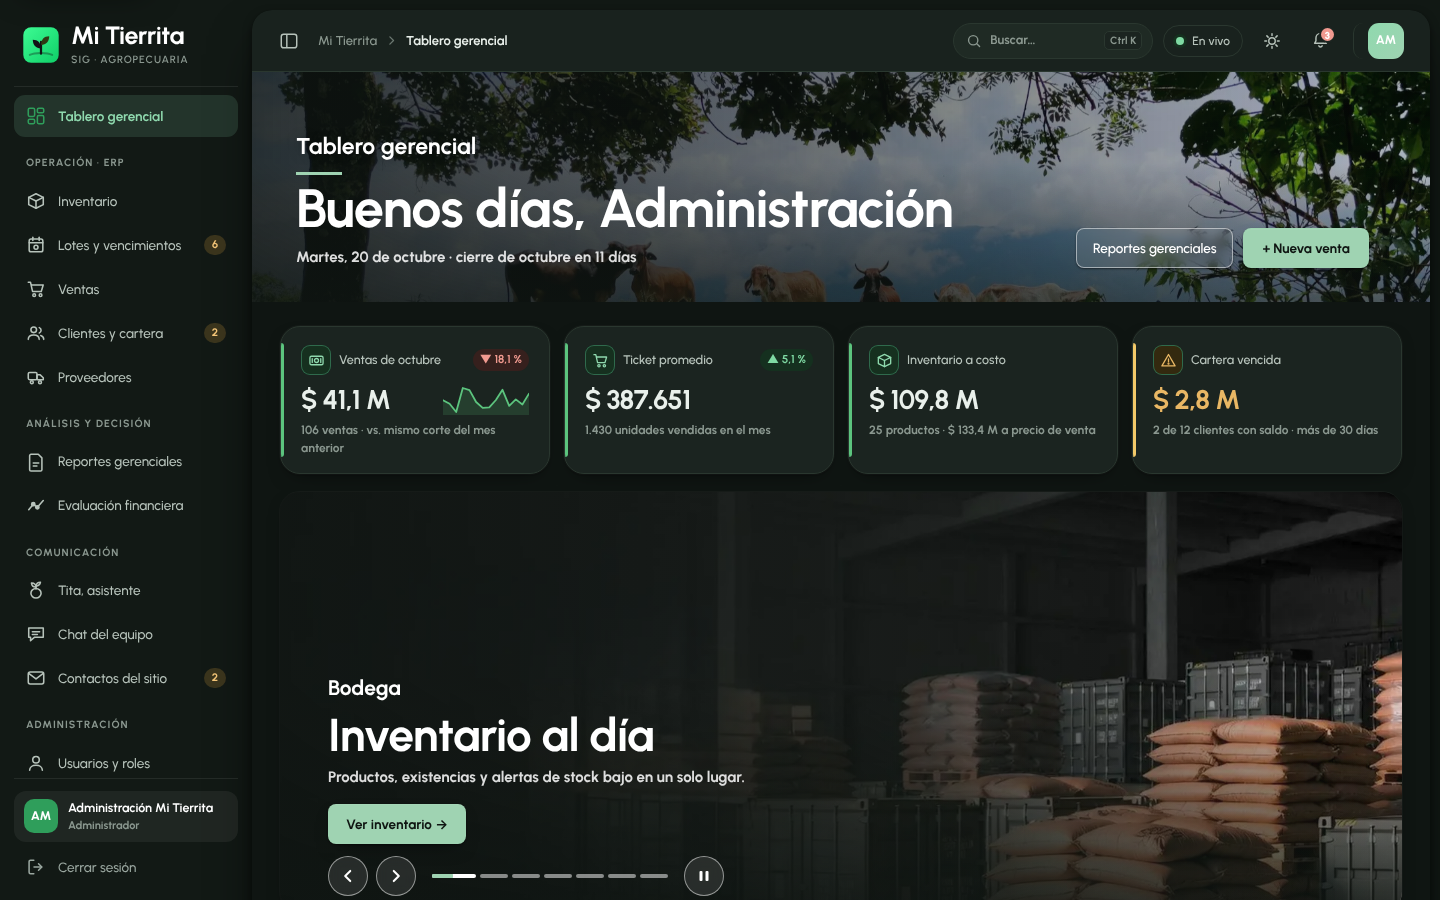
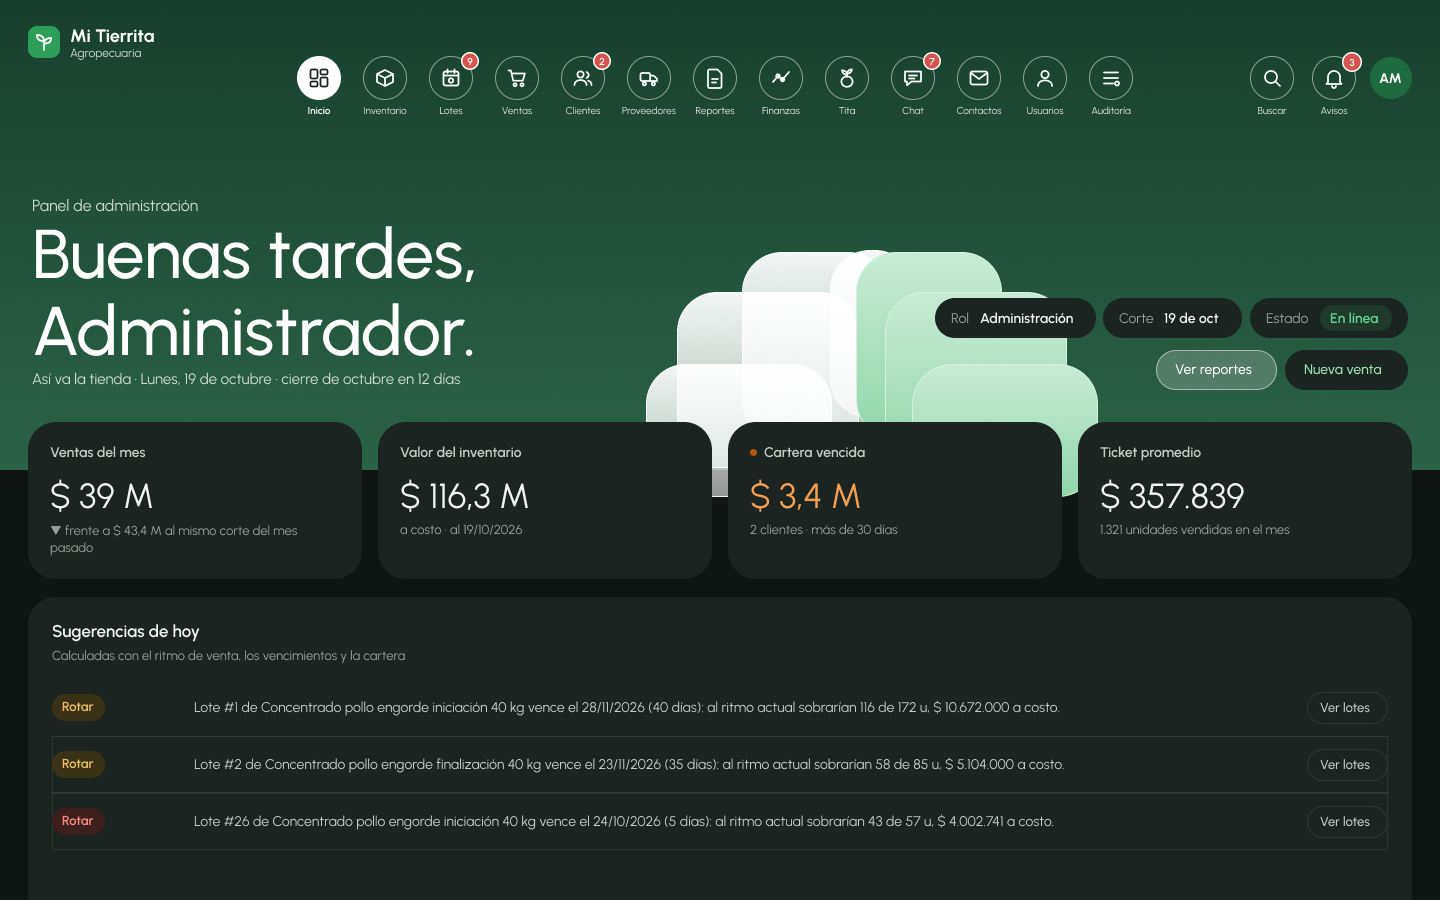
Capturas del README y el manual: son las pantallas del diseño en Figma

diff --git a/docs/MANUAL-USUARIO.md b/docs/MANUAL-USUARIO.md
@@ -1,6 +1,6 @@
 # Manual de usuario · Mi Tierrita SIG (guía rápida)
 
-> Guía rápida de la versión **v4.5** (capturas del 20/10/2026, con datos de demostración simulados). La versión completa
+> Guía rápida de la versión **v4.5** (capturas exportadas de Figma el 20/10/2026, con datos de demostración simulados). La versión completa
 > por rol está en Figma (página 04, manuales por rol en escritorio y móvil). Las cuentas las entrega el administrador;
 > la pantalla de ingreso no muestra atajos de demostración.
 
@@ -11,18 +11,18 @@ Quien abre el sitio sin sesión ve la página de la tienda. Su barra tiene **Cat
 escriba su nombre, un **teléfono o WhatsApp** o un correo (basta uno), el tema y el mensaje: llega al instante a la
 campana del administrador (máximo 5 mensajes por hora desde la misma conexión).
 
-![Página pública](capturas/00-pagina-inicio.png?v=20261021)
+![Página pública](capturas/00-pagina-inicio.png?v=20261022)
 
-![Catálogo](capturas/00b-pagina-catalogo.png?v=20261021)
+![Catálogo](capturas/00b-pagina-catalogo.png?v=20261022)
 
-![Contacto](capturas/25-pagina-contacto.png?v=20261021)
+![Contacto](capturas/25-pagina-contacto.png?v=20261022)
 
 ## 2. Ingresar
 
 Escriba su usuario y contraseña y pulse **Entrar al sistema**. Después de 10 intentos en 15 minutos hay que esperar.
 **Volver al sitio de Mi Tierrita** regresa a la página pública.
 
-![Ingreso](capturas/01-inicio-sesion.png?v=20261021)
+![Ingreso](capturas/01-inicio-sesion.png?v=20261022)
 
 ## 3. La pantalla principal
 
@@ -35,11 +35,11 @@ Escriba su usuario y contraseña y pulse **Entrar al sistema**. Después de 10 i
   en bodega; la secretaria, lo vendido hoy (contado y crédito), clientes con saldo y sus pendientes; bodega, **qué hacer
   hoy** y los lotes próximos a vencer.
 
-![Tablero](capturas/02-tablero.png?v=20261021)
+![Tablero](capturas/02-tablero.png?v=20261022)
 
 | Secretaria | Bodega |
 |---|---|
-| ![](capturas/28-tablero-secretaria.png?v=20261021) | ![](capturas/27-tablero-bodega.png?v=20261021) |
+| ![](capturas/28-tablero-secretaria.png?v=20261022) | ![](capturas/27-tablero-bodega.png?v=20261022) |
 
 ### Indicador de conexión
 
@@ -56,7 +56,7 @@ Escriba su usuario y contraseña y pulse **Entrar al sistema**. Después de 10 i
 **Ctrl + K** (o `/`) y escriba dos letras: productos con existencia, clientes con saldo, ventas por factura,
 proveedores y personas. Flechas para moverse, **Enter** para abrir; una persona abre el chat privado.
 
-![Búsqueda](capturas/16-busqueda.png?v=20261021)
+![Búsqueda](capturas/16-busqueda.png?v=20261022)
 
 ## 5. Chat del equipo
 
@@ -71,11 +71,11 @@ proveedores y personas. Flechas para moverse, **Enter** para abrir; una persona 
   mensajes que usted puede ver.
 - Si lee mensajes antiguos y llegan nuevos, aparece **↓ N mensajes nuevos**. La pestaña muestra «(n)» con lo pendiente.
 
-![Chat general](capturas/10-chat-general.png?v=20261021)
+![Chat general](capturas/10-chat-general.png?v=20261022)
 
-![Chat privado](capturas/10b-chat-privado.png?v=20261021)
+![Chat en modo oscuro](capturas/10d-chat-oscuro.png?v=20261022)
 
-![Detalle de recibos](capturas/10c-chat-recibos.png?v=20261021)
+![Detalle de recibos](capturas/10c-chat-recibos.png?v=20261022)
 
 ## 5b. Tita, la asistente
 
@@ -96,7 +96,7 @@ Tita avisa «no está disponible» y el resto del sistema funciona igual.
 Pulse un aviso para ir al módulo; **Marcar todas como leídas** limpia el contador. Quien hace la acción no recibe su
 propio aviso.
 
-![Notificaciones](capturas/15-notificaciones.png?v=20261021)
+![Notificaciones](capturas/15-notificaciones.png?v=20261022)
 
 ## 7. Operación diaria
 
@@ -106,9 +106,9 @@ propio aviso.
 - **Bodega · Lotes:** rojo = vencido (retirar), dorado = vence pronto (sacar al frente).
 - **Bodega · Proveedores:** **Registrar compra** crea el lote con su vencimiento y avisa al administrador.
 
-![Punto de venta](capturas/06-punto-de-venta.png?v=20261021)
+![Punto de venta](capturas/06-punto-de-venta.png?v=20261022)
 
-![Lotes](capturas/05-lotes.png?v=20261021)
+![Lotes](capturas/05-lotes.png?v=20261022)
 
 ## 8. Administración y decisión
 
@@ -123,15 +123,15 @@ propio aviso.
 - **Usuarios y roles · Auditoría:** alta de usuarios y bitácora. El filtro **Acción** separa altas, cambios,
   borrados, **reportes generados** e **inicios de sesión**; la columna de detalle dice qué reporte y con qué filtros.
 
-![Reportes](capturas/09-reportes.png?v=20261021)
+![Reportes](capturas/09-reportes.png?v=20261022)
 
-![Reporte de ventas en PDF](capturas/22-reporte-ventas-pdf.png?v=20261021)
+![Reporte de ventas en PDF](capturas/22-reporte-ventas-pdf.png?v=20261022)
 
-![Auditoría de reportes](capturas/20-auditoria-reportes.png?v=20261021)
+![Auditoría de reportes](capturas/20-auditoria-reportes.png?v=20261022)
 
-![Evaluación financiera](capturas/08-evaluacion-financiera.png?v=20261021)
+![Evaluación financiera](capturas/08-evaluacion-financiera.png?v=20261022)
 
-![Contactos](capturas/19-contactos.png?v=20261021)
+![Contactos](capturas/19-contactos.png?v=20261022)
 
 ## 9. Perfil y tema
 
@@ -146,15 +146,15 @@ que ha hecho en 30 días. A la derecha, cinco pestañas:
 | Mi rol | Lo que puede hacer y a qué no tiene acceso |
 | Preferencias | Claro, oscuro o **según el sistema** (sigue al dispositivo en vivo); se guarda en este navegador |
 
-![Perfil](capturas/17-perfil.png?v=20261021)
+![Perfil](capturas/17-perfil.png?v=20261022)
 
-![Mi actividad](capturas/17b-perfil-actividad.png?v=20261021)
+![Mi actividad](capturas/17b-perfil-actividad.png?v=20261022)
 
-![Seguridad](capturas/17c-perfil-seguridad.png?v=20261021)
+![Seguridad](capturas/17c-perfil-seguridad.png?v=20261022)
 
-![Preferencias](capturas/23-preferencias-tema.png?v=20261021)
+![Punto de venta en modo oscuro](capturas/23-oscuro-punto-de-venta.png?v=20261022)
 
-![Oscuro](capturas/11-oscuro.png?v=20261021)
+![Oscuro](capturas/11-oscuro.png?v=20261022)
 
 ## 10. En el celular
 
@@ -162,7 +162,7 @@ El menú se abre con el botón de la esquina; en el chat se ve primero la lista 
 
 | Página pública | Tablero | Venta | Chat |
 |---|---|---|---|
-| ![](capturas/12-movil-inicio.png?v=20261021) | ![](capturas/13-movil-tablero.png?v=20261021) | ![](capturas/14-movil-venta.png?v=20261021) | ![](capturas/18-movil-chat.png?v=20261021) |
+| ![](capturas/12-movil-inicio.png?v=20261022) | ![](capturas/13-movil-tablero.png?v=20261022) | ![](capturas/14-movil-venta.png?v=20261022) | ![](capturas/18-movil-chat.png?v=20261022) |
 
 ## 11. Si algo falla
 

diff --git a/README.md b/README.md
@@ -22,7 +22,7 @@ diaria del negocio (inventario con lotes, punto de venta, cartera, proveedores),
 evaluación financiera de la ampliación del local, con una línea visual editorial agrotecnológica: fotografía de
 campo a todo el ancho, titulares condensados e ilustraciones planas.
 
-![Tablero gerencial](docs/capturas/02-tablero.png?v=20261021)
+![Tablero gerencial](docs/capturas/02-tablero.png?v=20261022)
 
 ---
 
@@ -515,39 +515,39 @@ Después agregue la URL del sitio a `CORS_ORIGINS` de la API. Guía completa (ba
 
 ## Capturas
 
-*Capturas del 20/10/2026 con la versión v4.5 y datos de demostración simulados.*
+*Capturas exportadas del diseño en Figma «Mi Tierrita SIG · TCC 2026-2» (prototipo en verde pastel, 20/10/2026), con datos de demostración simulados; el reporte en PDF es el generado por la API.*
 
 **Página pública de inicio**
 
-![Página de inicio](docs/capturas/00-pagina-inicio.png?v=20261021)
+![Página de inicio](docs/capturas/00-pagina-inicio.png?v=20261022)
 
 | Inicio de sesión | Tablero gerencial |
 |---|---|
-| ![Inicio](docs/capturas/01-inicio-sesion.png?v=20261021) | ![Tablero](docs/capturas/02-tablero.png?v=20261021) |
+| ![Inicio](docs/capturas/01-inicio-sesion.png?v=20261022) | ![Tablero](docs/capturas/02-tablero.png?v=20261022) |
 | **Chat del equipo · #general** | **Chat privado con chulitos** |
-| ![Chat](docs/capturas/10-chat-general.png?v=20261021) | ![Privado](docs/capturas/10b-chat-privado.png?v=20261021) |
+| ![Chat](docs/capturas/10-chat-general.png?v=20261022) | ![Chat oscuro](docs/capturas/10d-chat-oscuro.png?v=20261022) |
 | **Notificaciones en vivo** | **Búsqueda global (Ctrl + K)** |
-| ![Campana](docs/capturas/15-notificaciones.png?v=20261021) | ![Búsqueda](docs/capturas/16-busqueda.png?v=20261021) |
+| ![Campana](docs/capturas/15-notificaciones.png?v=20261022) | ![Búsqueda](docs/capturas/16-busqueda.png?v=20261022) |
 | **Lotes y vencimientos** | **Punto de venta** |
-| ![Lotes](docs/capturas/05-lotes.png?v=20261021) | ![Ventas](docs/capturas/06-punto-de-venta.png?v=20261021) |
+| ![Lotes](docs/capturas/05-lotes.png?v=20261022) | ![Ventas](docs/capturas/06-punto-de-venta.png?v=20261022) |
 | **Clientes y cartera** | **Evaluación financiera** |
-| ![Clientes](docs/capturas/07-clientes-cartera.png?v=20261021) | ![Finanzas](docs/capturas/08-evaluacion-financiera.png?v=20261021) |
+| ![Clientes](docs/capturas/07-clientes-cartera.png?v=20261022) | ![Finanzas](docs/capturas/08-evaluacion-financiera.png?v=20261022) |
 | **Reportes gerenciales** | **Mi perfil** |
-| ![Reportes](docs/capturas/09-reportes.png?v=20261021) | ![Perfil](docs/capturas/17-perfil.png?v=20261021) |
+| ![Reportes](docs/capturas/09-reportes.png?v=20261022) | ![Perfil](docs/capturas/17-perfil.png?v=20261022) |
 | **Mi actividad** | **Auditoría de reportes** |
-| ![Actividad](docs/capturas/17b-perfil-actividad.png?v=20261021) | ![Auditoría](docs/capturas/20-auditoria-reportes.png?v=20261021) |
+| ![Actividad](docs/capturas/17b-perfil-actividad.png?v=20261022) | ![Auditoría](docs/capturas/20-auditoria-reportes.png?v=20261022) |
 | **Detalle de recibos (solo el autor)** | **Reporte de ventas en PDF** |
-| ![Recibos](docs/capturas/10c-chat-recibos.png?v=20261021) | ![PDF](docs/capturas/22-reporte-ventas-pdf.png?v=20261021) |
+| ![Recibos](docs/capturas/10c-chat-recibos.png?v=20261022) | ![PDF](docs/capturas/22-reporte-ventas-pdf.png?v=20261022) |
 | **Página pública · catálogo** | **Preferencias de tema** |
-| ![Catálogo](docs/capturas/00b-pagina-catalogo.png?v=20261021) | ![Tema](docs/capturas/23-preferencias-tema.png?v=20261021) |
+| ![Catálogo](docs/capturas/00b-pagina-catalogo.png?v=20261022) | ![Punto de venta oscuro](docs/capturas/23-oscuro-punto-de-venta.png?v=20261022) |
 
 **Modo oscuro**
 
-![Oscuro](docs/capturas/11-oscuro.png?v=20261021)
+![Oscuro](docs/capturas/11-oscuro.png?v=20261022)
 
 | Celular: página de inicio | Celular: tablero | Celular: venta | Celular: chat |
 |---|---|---|---|
-| ![Móvil inicio](docs/capturas/12-movil-inicio.png?v=20261021) | ![Móvil tablero](docs/capturas/13-movil-tablero.png?v=20261021) | ![Móvil venta](docs/capturas/14-movil-venta.png?v=20261021) | ![Móvil chat](docs/capturas/18-movil-chat.png?v=20261021) |
+| ![Móvil inicio](docs/capturas/12-movil-inicio.png?v=20261022) | ![Móvil tablero](docs/capturas/13-movil-tablero.png?v=20261022) | ![Móvil venta](docs/capturas/14-movil-venta.png?v=20261022) | ![Móvil chat](docs/capturas/18-movil-chat.png?v=20261022) |
 
 ---
 
@@ -562,7 +562,7 @@ Después agregue la URL del sitio a `CORS_ORIGINS` de la API. Guía completa (ba
 | v4.2 · Reportes y perfil | Reportes en PDF con gráficos y Excel generados por la API, historial de reportes y auditoría por acción, Mi perfil completo, inicio de sesión sin atajos de demostración | Completado |
 | v4.3 · Pulido visual | Sistema de diseño en tokens (espacio, tipografía, elevación, foco, movimiento), estados en todo control, Modal accesible, vista previa de reportes con «Guardar como…», carruseles y fondos fotográficos | Completado |
 | v4.5 · Chat avanzado, tema y Tita | Chat con chulitos por persona, citas, hilos, fijados, menciones, adjuntos y voz; tema claro/oscuro/sistema; Tita (asistente con IA, opcional); página pública de Matos; en `main` | Completado · falta publicar en Seenode |
-| v4.6 · «Verde pastel» | La aplicación adopta el sistema de diseño del prototipo en Figma: paleta verde pastel, Urbanist, menú claro, tema oscuro nuevo; PDF de reportes en la misma paleta; las 31 capturas se regeneran | Completado |
+| v4.6 · «Verde pastel» | La aplicación adopta el sistema de diseño del prototipo en Figma: paleta verde pastel, Urbanist, menú claro, tema oscuro nuevo; PDF de reportes en la misma paleta; las 31 capturas son las del diseño en Figma | Completado |
 | v4.1 · Sitio y tiempo real | Página pública completa con contacto y boletín; chat con Socket.io, presencia, notificaciones, datos en vivo, búsqueda global, Mi perfil, contactos del sitio, ErrorBoundary, 404 ilustrado, exportación PDF | Completado · falta publicar en Seenode y validar con usuarios reales |
 
 ---
